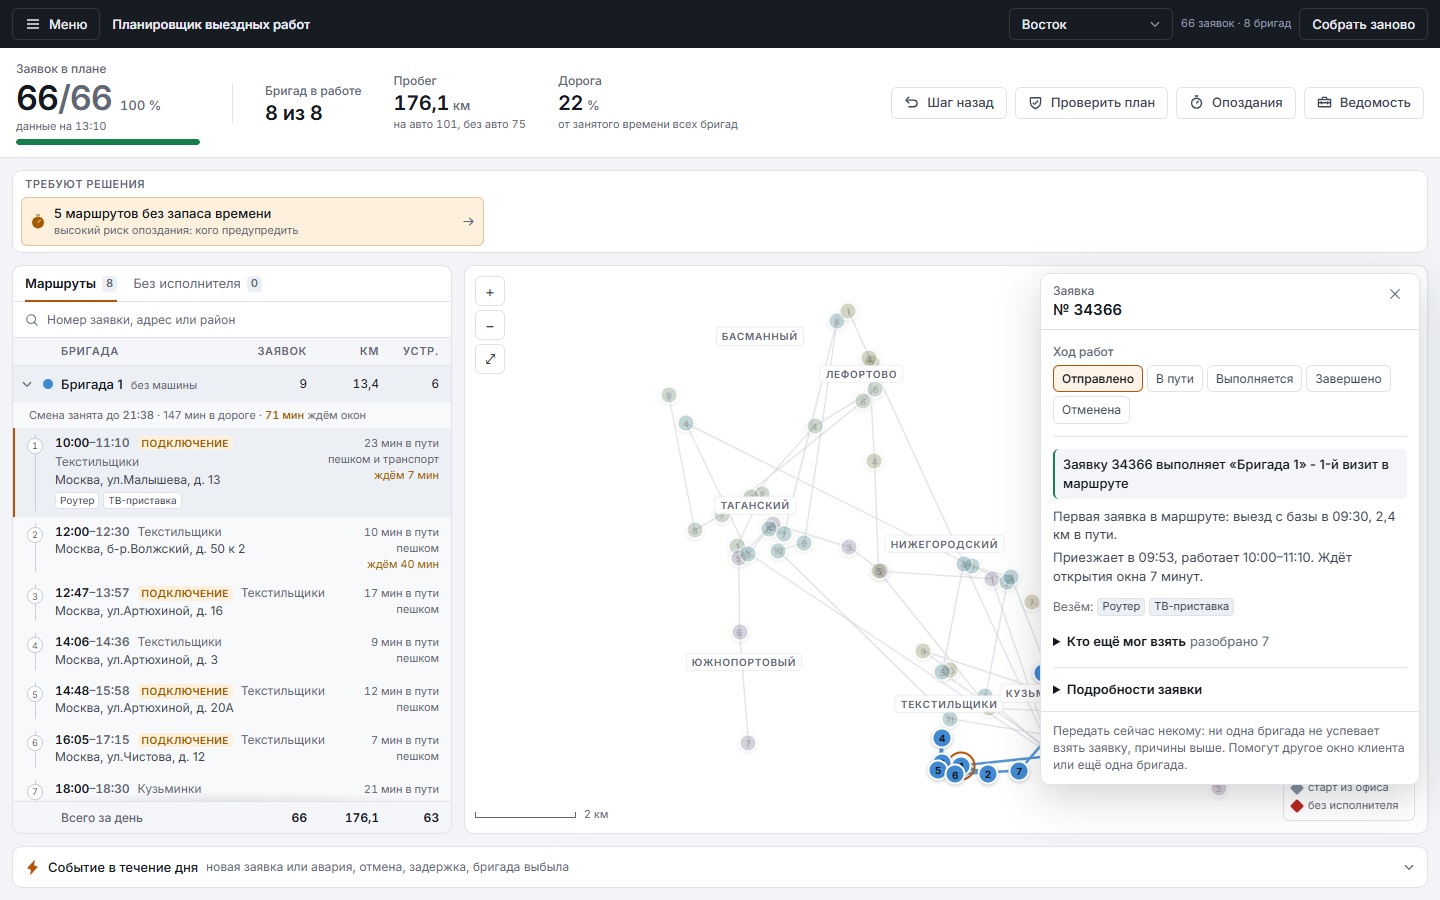
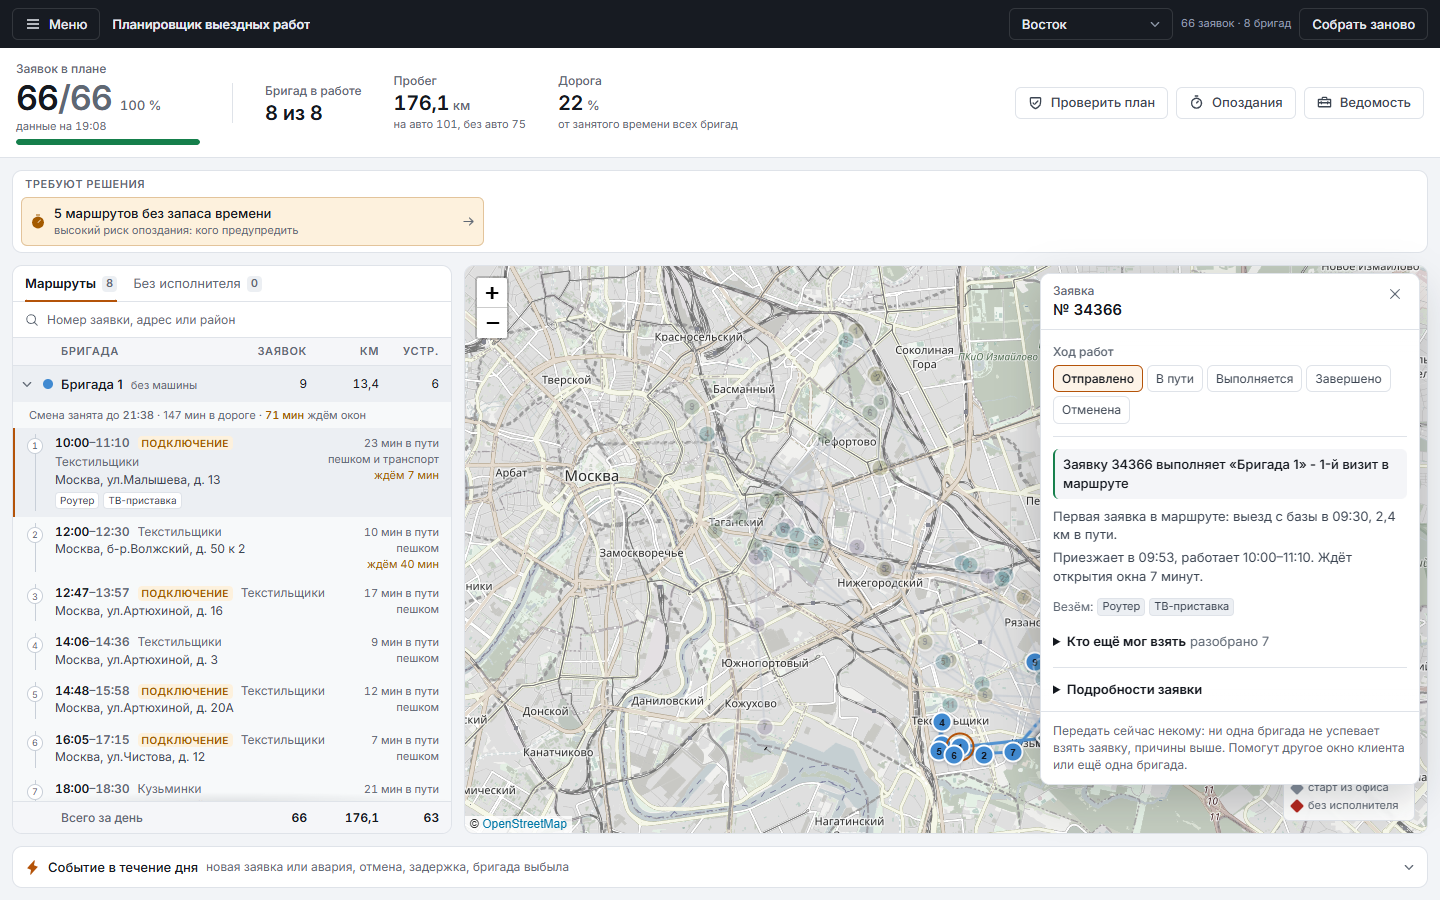
Карта OpenStreetMap без ключа между Яндекс Картами и собственной схемой
Ключ Яндекса недействителен, а API платное: интерфейс рисовал только схему.
Теперь по порядку: Яндекс при рабочем ключе, иначе OpenStreetMap на Leaflet
(грузится отдельным файлом), без сети собственная схема. Подложка
приглушена под цвета бригад, в тёмной теме инвертируется. Снимки в
презентации пересняты с настоящей картой.

Changed region(s): [[0.3125, 0.28, 1.0, 0.9333], [0.625, 0.0933, 0.6875, 0.1244]]

diff --git a/frontend/src/features/map/osm.js b/frontend/src/features/map/osm.js
@@ -1,0 +1,143 @@
+'use strict';
+
+import L from 'leaflet';
+import 'leaflet/dist/leaflet.css';
+
+import { escapeHtml } from './viewport.js';
+
+/* Карта OpenStreetMap: без ключа и без платы. Метки и линии те же, что на
+ * схеме и на Яндекс Картах. Подложка приглушена стилями (map.css), чтобы
+ * цвета бригад читались поверх неё. Если плитки не пришли (нет интернета),
+ * вызывающий переходит на собственную схему. */
+
+const TILES = 'https://tile.openstreetmap.org/{z}/{x}/{y}.png';
+const ATTRIBUTION =
+  '&copy; <a href="https://www.openstreetmap.org/copyright">OpenStreetMap</a>';
+const PROBE_TIMEOUT_MS = 6000;
+const MOSCOW = [55.75, 37.62];
+
+/* Одна плитка Москвы: отвечает подложка или нет. Без проверки карта без
+   сети показывала бы серое поле с линиями вместо понятной схемы. */
+function probeTiles() {
+  return new Promise((resolve, reject) => {
+    const image = new Image();
+    const timer = setTimeout(
+      () => reject(new Error('Подложка OpenStreetMap не ответила')), PROBE_TIMEOUT_MS);
+    image.onload = () => { clearTimeout(timer); resolve(); };
+    image.onerror = () => {
+      clearTimeout(timer);
+      reject(new Error('Не удалось загрузить подложку OpenStreetMap'));
+    };
+    image.src = TILES.replace('{z}', '10').replace('{x}', '619').replace('{y}', '320');
+  });
+}
+
+function pinIcon(html, cls, color) {
+  const style = color ? ` style="background:${escapeHtml(color)}"` : '';
+  return L.divIcon({
+    className: 'osm-pin-anchor',
+    html: `<div class="${cls}"${style}>${html}</div>`,
+    iconSize: [0, 0],
+  });
+}
+
+export async function createOsmMap(container, options) {
+  await probeTiles();
+
+  container.innerHTML = '';
+  const map = L.map(container, { zoomControl: false, attributionControl: false })
+    .setView(MOSCOW, 10);
+  L.control.zoom({ position: 'topleft' }).addTo(map);
+  L.control.attribution({ position: 'bottomleft', prefix: false })
+    .addAttribution(ATTRIBUTION).addTo(map);
+  L.tileLayer(TILES, { maxZoom: 19 }).addTo(map);
+  container.classList.toggle('osm-dark', options.theme === 'dark');
+  const layer = L.layerGroup().addTo(map);
+
+  const onPick = options.onPick || (() => {});
+  const onSelectOrder = options.onSelectOrder || (() => {});
+  map.on('click', (event) => onPick(event.latlng.lat, event.latlng.lng));
+
+  const markerNodes = new Map();
+  let pickMarker = null;
+  let selected = null;
+  let fitted = false;
+  let lastBounds = [];
+
+  function addMarker(point, html, cls, color, orderId) {
+    const marker = L.marker([point.lat, point.lon], {
+      icon: pinIcon(html, cls, color), keyboard: false, title: point.title || '',
+    }).addTo(layer);
+    if (orderId) {
+      marker.on('click', () => onSelectOrder(orderId));
+      const node = marker.getElement()?.firstElementChild;
+      if (node) markerNodes.set(orderId, node);
+    }
+  }
+
+  function fitBounds(points) {
+    map.fitBounds(L.latLngBounds(points), { padding: [36, 36], animate: false });
+  }
+
+  return {
+    kind: 'osm',
+    title: 'OpenStreetMap',
+    ready: Promise.resolve(),
+    render(model) {
+      // Контейнер мог поменять размер: без этого часть плиток не догружалась.
+      map.invalidateSize();
+      layer.clearLayers();
+      markerNodes.clear();
+      const bounds = [];
+      (model.routes || []).forEach((route) => {
+        const coords = route.points.map((p) => [p.lat, p.lon]);
+        coords.forEach((c) => bounds.push(c));
+        if (coords.length > 1) {
+          L.polyline(coords, {
+            color: route.dim ? '#c7ccd4' : route.color,
+            weight: route.dim ? 2 : 3,
+            opacity: route.dim ? 0.7 : 0.9,
+            interactive: false,
+          }).addTo(layer);
+        }
+        const faded = route.dim ? ' dim' : '';
+        route.points.forEach((p) => {
+          if (p.kind === 'base') {
+            addMarker(p, '', 'scheme-pin scheme-base' + faded, route.color);
+          } else {
+            addMarker(p, escapeHtml(p.label || ''), 'scheme-pin' + faded,
+                      route.color, p.orderId);
+          }
+        });
+      });
+      (model.loose || []).forEach((p) => {
+        bounds.push([p.lat, p.lon]);
+        addMarker(p, '!', 'scheme-pin scheme-loose', null, p.orderId);
+      });
+      if (pickMarker) addMarker(pickMarker, '+', 'scheme-pin scheme-pick');
+      /* Масштаб подбираем только при первой отрисовке плана, как и на
+         Яндекс Картах: дальше карту двигает диспетчер. */
+      lastBounds = bounds;
+      if (bounds.length > 1 && !fitted) {
+        fitted = true;
+        fitBounds(bounds);
+      }
+      if (selected) this.focusOrder(selected);
+    },
+    focusOrder(orderId) {
+      selected = orderId;
+      markerNodes.forEach((node, id) => {
+        node.classList.toggle('selected', id === orderId);
+      });
+    },
+    setTheme(theme) { container.classList.toggle('osm-dark', theme === 'dark'); },
+    setPickMarker(lat, lon) {
+      pickMarker = { lat, lon, title: 'Новая срочная заявка' };
+    },
+    clearPickMarker() { pickMarker = null; },
+    fit() {
+      if (lastBounds.length > 1) fitBounds(lastBounds);
+    },
+    destroy() { map.remove(); },
+  };
+}

diff --git a/frontend/src/features/map/map.js b/frontend/src/features/map/map.js
@@ -2,8 +2,9 @@
 
 /* Картографический слой.
  *
- * Две реализации за одним интерфейсом:
+ * Три реализации за одним интерфейсом:
  *   «Яндекс Карты»  - JS API 3.0, российский сервис, нужен ключ;
+ *   «OpenStreetMap» - подложка OpenStreetMap на Leaflet, без ключа и без платы;
  *   «Схема»         - собственная отрисовка на SVG, без сторонних библиотек
  *                     и без обращений наружу, работает офлайн.
  *
@@ -28,14 +29,21 @@
 import { createSchemeMap } from './scheme.js';
 import { createYandexMap } from './yandex.js';
 
-/* Возвращает карту, готовую к работе. Если ключ Яндекс Карт не задан или
-   сервис не отвечает, молча переходит на схему и сообщает об этом
-   через options.onFallback - чтобы интерфейс мог честно назвать источник. */
+/* Возвращает карту, готовую к работе. Яндекс Карты при ключе, иначе
+   OpenStreetMap, а без сети - собственная схема. О каждом переходе
+   сообщает через options.onFallback, чтобы интерфейс честно назвал источник. */
+/* Leaflet грузится отдельным файлом и только когда нужен. */
+async function createOsmMap(container, options) {
+  const { createOsmMap: create } = await import('./osm.js');
+  return create(container, options);
+}
+
 export async function createDispatcherMap(container, options) {
   const opts = options || {};
-  if (opts.apiKey) {
+  const attempts = opts.apiKey ? [createYandexMap, createOsmMap] : [createOsmMap];
+  for (const create of attempts) {
     try {
-      return await createYandexMap(container, opts);
+      return await create(container, opts);
     } catch (error) {
       if (opts.onFallback) opts.onFallback(error.message);
     }

diff --git a/frontend/src/features/map/map.css b/frontend/src/features/map/map.css
@@ -126,7 +126,24 @@
   opacity: 0.8;
 }
 
-/* Один и тот же вид метки и на Яндекс Картах, и на схеме. */
+/* Подложка OpenStreetMap пёстрая: приглушаем, чтобы цвета бригад читались.
+   В тёмной теме та же карта инвертируется. */
+.leaflet-tile-pane {
+  filter: grayscale(0.75) contrast(0.95) brightness(1.03);
+}
+
+.osm-dark .leaflet-tile-pane {
+  filter: grayscale(0.8) invert(1) hue-rotate(180deg) brightness(0.9) contrast(0.9);
+}
+
+/* Метку на OpenStreetMap ставит обёртка нулевого размера: сама метка
+   центрируется на точке тем же сдвигом, что и на схеме. */
+.osm-pin-anchor {
+  background: none;
+  border: none;
+}
+
+/* Один и тот же вид метки на всех трёх картах. */
 .scheme-pin {
   position: absolute;
   transform: translate(-50%, -50%);

diff --git a/frontend/src/features/map/MapView.tsx b/frontend/src/features/map/MapView.tsx
@@ -106,7 +106,8 @@ export function MapView({
       data-testid="map"
       className="relative min-h-[320px] w-full min-w-0 overflow-hidden rounded-lg border border-line bg-panel"
     >
-      <div ref={box} className="absolute inset-0" />
+      {/* isolate: слои Leaflet со своими z-index не перекрывают легенду и карточки. */}
+      <div ref={box} className="absolute inset-0 isolate" />
       {yandex ? (
         <span className="absolute right-3 top-3 rounded-md border border-line bg-panel/90 px-2 py-1 text-[11px] text-ink-3">
           Карта: Яндекс Карты

diff --git a/frontend/src/features/map/map.d.ts b/frontend/src/features/map/map.d.ts
@@ -37,7 +37,7 @@ export interface MapOptions {
 }
 
 export interface DispatcherMap {
-  kind: 'yandex' | 'scheme';
+  kind: 'yandex' | 'osm' | 'scheme';
   title: string;
   ready: Promise<unknown>;
   render(model: MapModel): void;

diff --git a/scripts/shoot.py b/scripts/shoot.py
@@ -48,7 +48,8 @@ _MEASURE = (Path(__file__).parent / "shoot_measure.js").read_text(encoding="utf-
 #: Адреса внешней карты. При съёмке они отклоняются сразу: недоступная карта
 #: отваливается по таймауту соединения и держит интерфейс десятками секунд, а
 #: результат съёмки начинает зависеть от сети.
-MAP_HOSTS = ("**api-maps.yandex.ru**", "**yandex.ru/maps**", "**yastatic.net**")
+MAP_HOSTS = ("**api-maps.yandex.ru**", "**yandex.ru/maps**", "**yastatic.net**",
+             "**tile.openstreetmap.org**")
 
 
 async def _block_map(page: Page) -> None:

diff --git a/README.md b/README.md
@@ -9,8 +9,8 @@
 
 **Демо-стенд: <https://dispatcher.tech-wave.ru>.** Рабочий день на стенде общий
 для всех посетителей: событие, применённое одним, видят и остальные, а
-«Собрать заново» возвращает утро. Стенд работает без ключей Яндекса (вместо
-карты собственная схема) и без базы (день живёт до перезапуска сервиса).
+«Собрать заново» возвращает утро. Карта на стенде OpenStreetMap, ключи
+Яндекса не нужны; базы нет, день живёт до перезапуска сервиса.
 
 ---
 
@@ -49,8 +49,8 @@ python -m uvicorn dispatcher.api.app:app --port 8000 --app-dir src
 PostgreSQL для запуска не нужен: без базы сервис держит рабочий день в
 памяти (подробнее в разделе «Хранение рабочего дня»).
 
-Интернет нужен только для установки зависимостей и для Яндекс Карт. Без ключа
-карт интерфейс рисует собственную схему, а расчёт и так работает офлайн.
+Интернет нужен только для установки зависимостей и для подложки карты. Без
+сети интерфейс рисует собственную схему, а расчёт и так работает офлайн.
 
 ### Проверки
 
@@ -203,7 +203,7 @@ python -m alembic upgrade head     # схема
 | Службы | `src/dispatcher/services/` | Планирование, перепланирование, метрики, объяснения, риск, оборудование, наборы данных |
 | Ручки | `src/dispatcher/api/` | HTTP-интерфейс в формате `{ok, data, error}` (кроме выгрузок набора и плана, это чистый JSON), журнал дня, раздача интерфейса |
 | Интерфейс | `frontend/src/` | React и TypeScript: сводка дня, маршруты, карта, события, окна проверок |
-| Карта | `frontend/src/features/map/` | Яндекс Карты и собственная схема за одним интерфейсом |
+| Карта | `frontend/src/features/map/` | Яндекс Карты, OpenStreetMap и собственная схема за одним интерфейсом |
 
 Файлы кода и тестов держатся в пределах двухсот строк: слой разложен на
 небольшие модули по смыслу.
@@ -669,11 +669,17 @@ python scripts/geocode.py --provider nominatim --force   # без ключа, о
 
 ## Карта
 
-Используются **Яндекс Карты, JS API 3.0**. Сторонних картографических
-библиотек в проекте нет.
+Карта выбирается сама, по порядку:
+
+1. **Яндекс Карты, JS API 3.0**, если задан рабочий ключ `YANDEX_MAPS_API_KEY`.
+   API платное, поэтому по умолчанию ключа нет.
+2. **OpenStreetMap** (библиотека Leaflet) - без ключа и без платы. Подложка
+   приглушена, чтобы цвета бригад читались поверх неё; в тёмной теме она
+   инвертируется. Leaflet грузится отдельным файлом и только когда нужен.
+3. **Собственная схема**, если подложка не пришла (нет интернета).
 
 ```bash
-cp .env.example .env     # вписать ключ в YANDEX_MAPS_API_KEY
+cp .env.example .env     # ключ Яндекс Карт, если он есть
 ./run.sh
 ```
 
@@ -681,12 +687,13 @@ cp .env.example .env     # вписать ключ в YANDEX_MAPS_API_KEY
 `docker compose` и скрипт геокодирования. Ключ можно задать и переменной
 окружения, она сильнее файла.
 
-Без ключа интерфейс рисует **собственную схему** и пишет об этом внизу
+Без сети интерфейс рисует **собственную схему** и пишет об этом внизу
 карты. Это рабочий режим: те же маршруты, точки с номерами визитов, стартовые
 точки бригад, подписи районов, масштабная линейка, приближение колесом и
 перетаскивание, клик по точке открывает объяснение. Схема не обращается
 наружу. Если ключ задан, но Яндекс не ответил за 12 секунд, интерфейс
-переходит на схему и называет причину.
+переходит на OpenStreetMap, а подложка, не ответившая за 6 секунд, уступает
+схеме.
 
 ## Прогноз опозданий
 

diff --git a/docs/demo.md b/docs/demo.md
@@ -21,10 +21,9 @@ python scripts/clear_day.py        # свернуть день после реп
 15-30 секунд, Юго-восток до минуты, Югоцентр 10-20 секунд. Главный
 показ идёт на Востоке, нехватка людей и отказы на Юго-востоке.
 
-Ключ Яндекс Карт вписать в `.env` (`cp .env.example .env`), `run.sh` и
-`docker compose` читают этот файл сами. Проверка одним взглядом: подпись внизу
-карты. Если там собственная схема, демонстрации это не мешает, но лучше знать
-заранее.
+Карта по умолчанию OpenStreetMap, ключ не нужен. Проверка одним взглядом:
+подпись внизу карты «© OpenStreetMap». Если вместо неё собственная схема,
+значит, нет интернета; демонстрации это не мешает, но лучше знать заранее.
 
 ---
 
